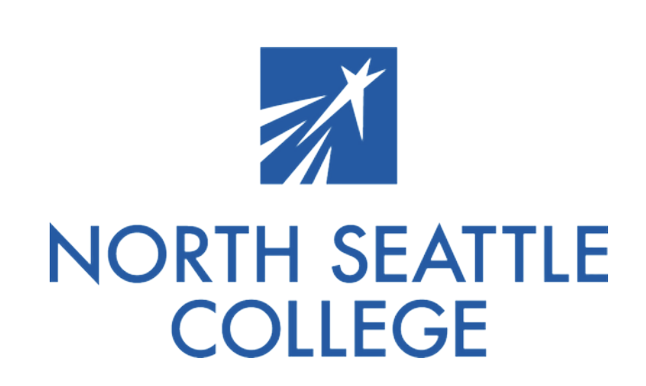
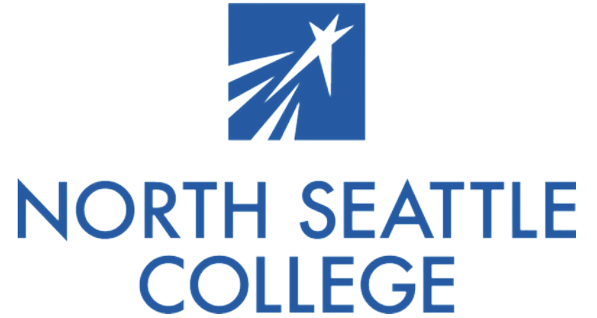
addedd affiliations

Changed region(s): [[0.0302, 0.566, 0.9648, 0.9906], [0.3618, 0.0, 0.6332, 0.4811]]

diff --git a/index.html b/index.html
@@ -23,6 +23,7 @@
             text-align: left;
             padding-top: 3%;
         }
+
     </style>
 </head>
 
@@ -69,8 +70,11 @@
         <div class="columns is-centered has-text-centered">
             <div class="column is-centered has-text-centered is-7">
                 <p style="text-align: left;">
-                    I am a <a href="https://insightglobal.com/">Robotic System Integrator</a> at <a href="https://ai.facebook.com/">Facebook AI Research (FAIR)</a> at <a href="https://www.cmu.edu/">Carnegie Mellon University</a> in
-                    Pittsburgh, Pennslyvania. I collaborate closely with <a href="https://vikashplus.github.io/">Vikash Kumar</a>. I build large-scale multi-task
+                    I am a <a href="https://insightglobal.com/">Robotic System Integrator</a> at <a
+                        href="https://ai.facebook.com/">Facebook AI Research (FAIR)</a> at <a
+                        href="https://www.cmu.edu/">Carnegie Mellon University</a> in
+                    Pittsburgh, Pennslyvania. I collaborate closely with <a href="https://vikashplus.github.io/">Vikash
+                        Kumar</a>. I build large-scale multi-task
                     agents learning from visual representations.
                 </p>
 
@@ -82,7 +86,9 @@
 
                 <p>
                     I am interested in areas of Robotics, Embodied Artificial Intelligence (EAI), and solving autonomous
-                    world navigation. Apart from robotics and research, I am interested in <a href="bouldering.html">climbing/bouldering</a>, photography, football(soccer), and cars. 
+                    world navigation. Apart from robotics and research, I am interested in <a
+                        href="bouldering.html">climbing/bouldering</a>, <a href="photography.html">photography</a>,
+                    football(soccer), and cars.
 
                 </p>
             </div>
@@ -102,12 +108,21 @@
     <div class="hero-body is-centered has-text-centered is-gapless columns">
         <div class="column is-centered has-text-centered">
             <img src="media/uw.png" alt="" style="width: 50%;">
+            <div style="margin-top: 3%;">
+                <caption>Undergraduate (2018-2022)</caption>
+            </div>
         </div>
         <div class="column is-centered has-text-centered">
             <img src="media/sti.png" alt="" style="width: 50%;">
+            <div style="margin-top: 10%;">
+                <caption>Capstone collaboration (2021-2022)</caption>
+            </div>
         </div>
         <div class="column is-centered has-text-centered">
             <img src="media/nsc.png" alt="" style="width: 50%;">
+            <div style="margin-top: 1%;">
+                <caption>Associates of Science (2017-2018)</caption>
+            </div>
         </div>
     </div>
     <div class="container is-centered columns" style="padding-top: 2%;">
